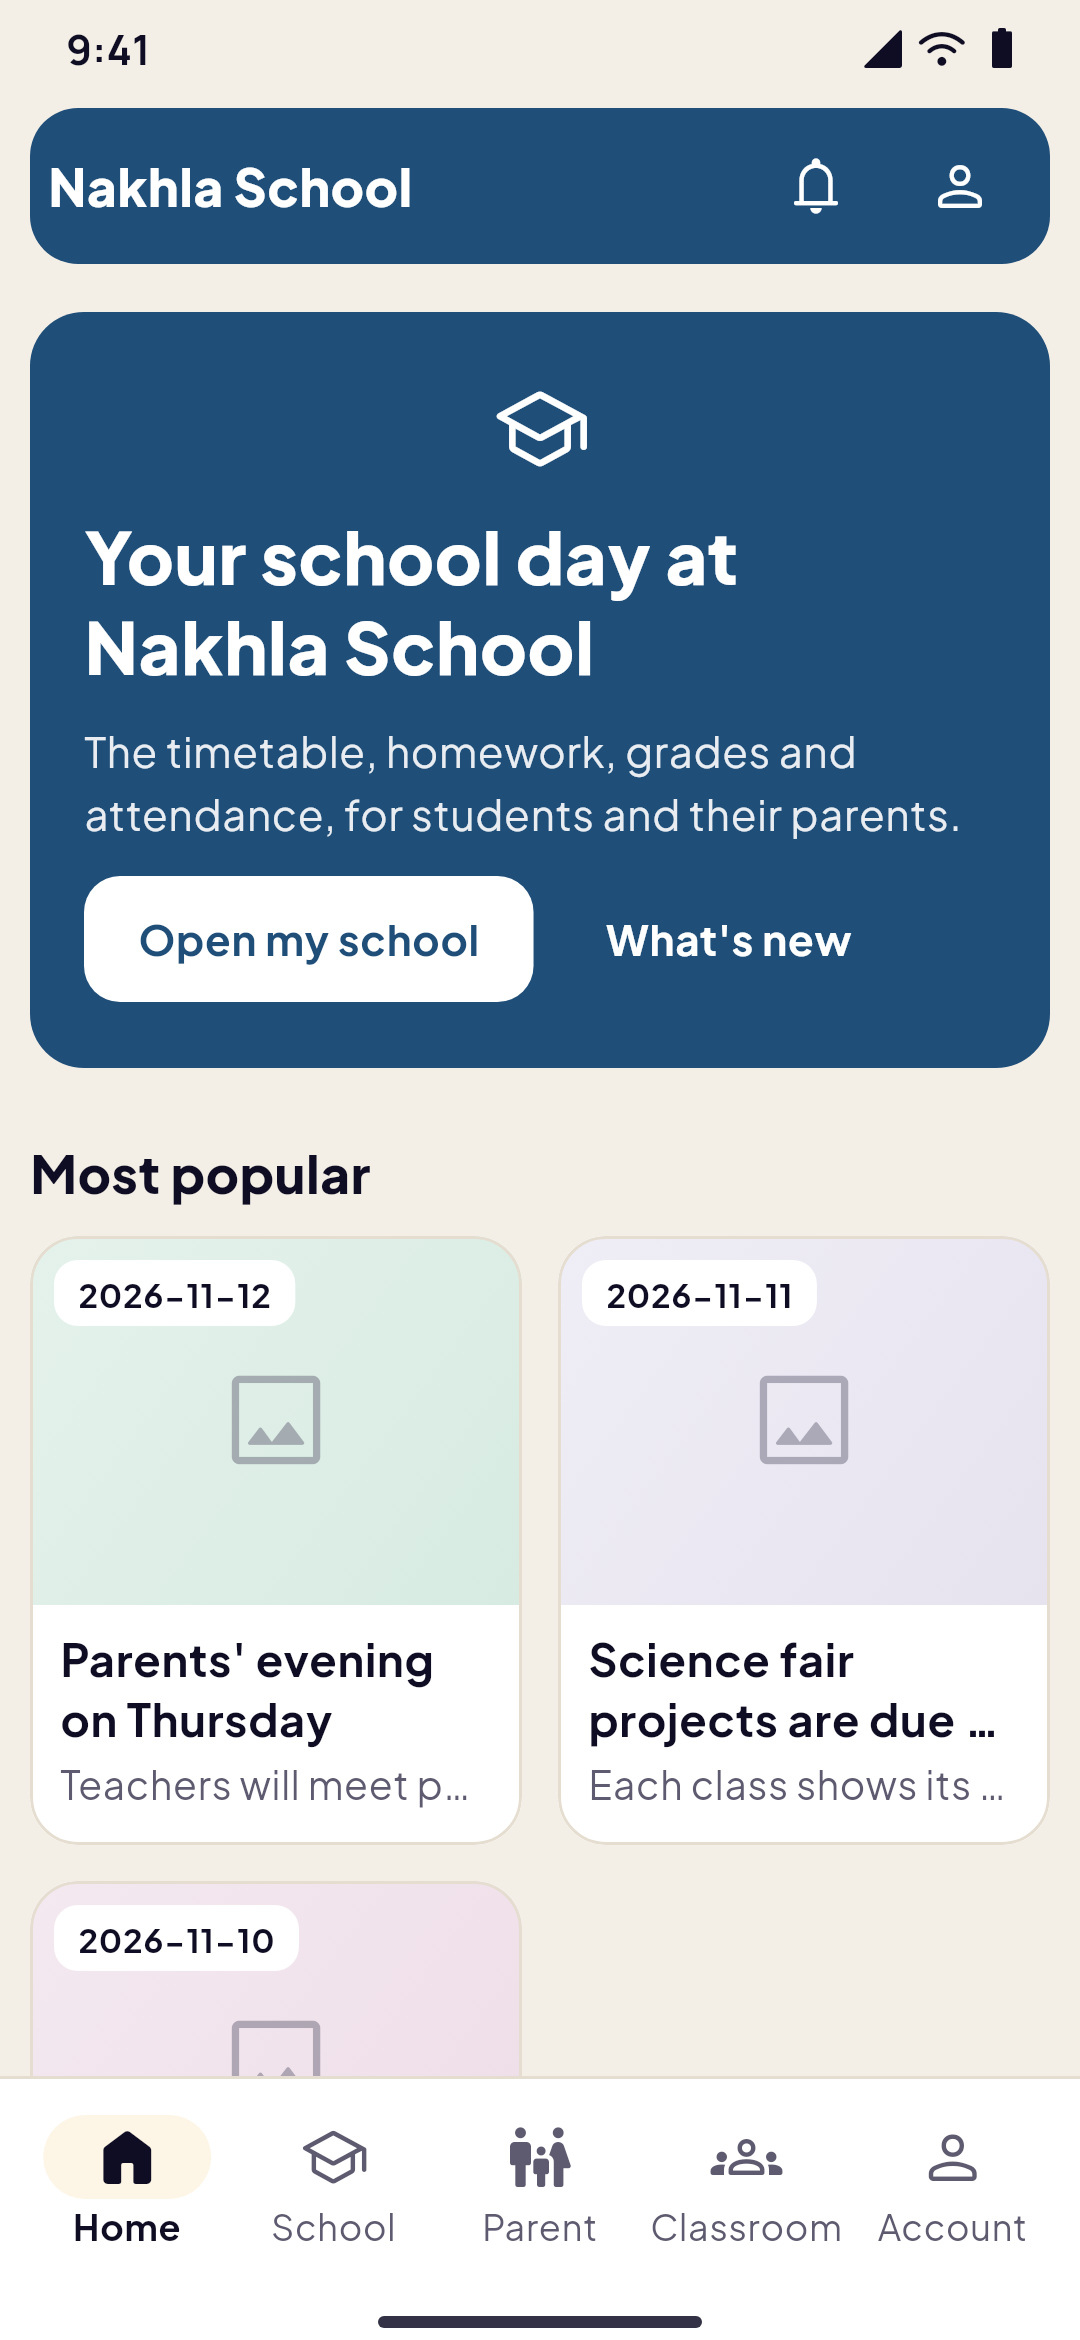
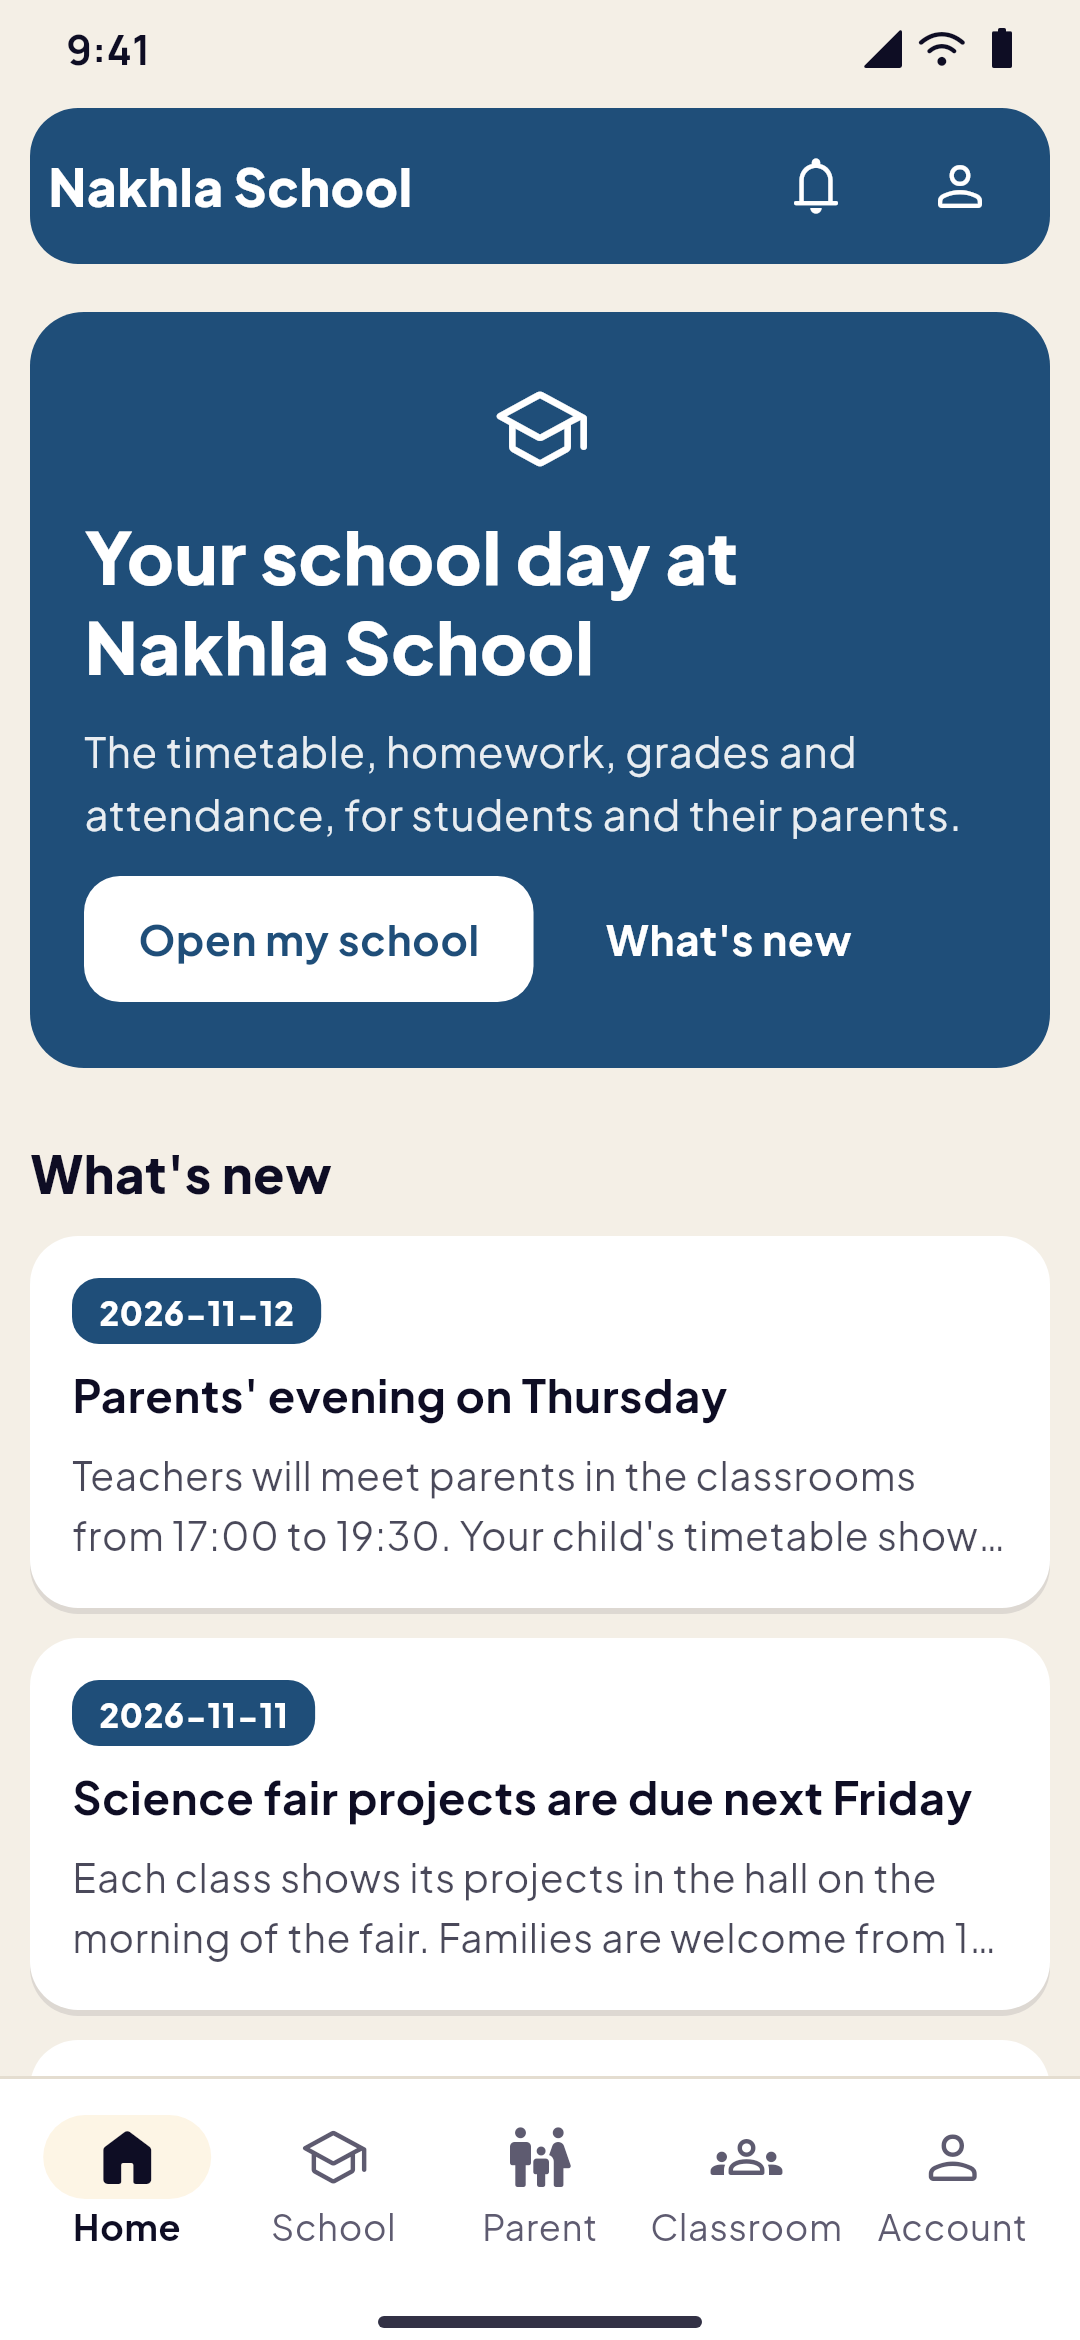
124.7 A school's news as cards of words; Zad's couriers' own app in its guide
School news never has pictures, so the school templates (and the Nakhla School demo they are) list it under "What's new" as cards of words: the date on a chip, the title and a line or two, in the app and on Studio's canvas, instead of picture tiles. Zad's guide names its couriers' own app instead of Account › Courier mode, and /demo/studio offers Zad Courier's download once it is built, as for the other Studio demos.

Claude-Session: https://claude.ai/code/session_01MSAbbHjPLVdK4KhggTQ4Tg

Changed region(s): [[0.0306, 0.4679, 0.9778, 0.9047], [0.5806, 0.5303, 0.6417, 0.5615]]

diff --git a/platform/web/src/lib/studio/sections.ts b/platform/web/src/lib/studio/sections.ts
@@ -272,6 +272,48 @@ function marketSection(
 }
 
 /** 105.4 A school's welcome in its words: a button to the school and one to what's new. */
+/**
+ * 124.7 A school's news, which never has pictures: each entry a card of
+ * words (its date on a chip, its title and a line or two of it) instead of
+ * a picture tile, under "What's new".
+ */
+function schoolNewsList(ctx: SectionContext): StudioNode {
+  const id = () => (ctx.newId ?? newNodeId)();
+  return {
+    id: id(),
+    type: "column",
+    name: ctx.w("schoolUpdates"),
+    gap: 8,
+    padding: pad(6, 10),
+    children: [
+      text(ctx, ctx.w("schoolUpdates"), { font: { size: 17, weight: 800 } }),
+      {
+        id: id(),
+        type: "items",
+        source: "school_news",
+        layout: "list",
+        gap: 10,
+        query: { limit: 4, category_id: null, featured: false, sort: "newest", ids: [] },
+        card: {
+          id: id(),
+          type: "column",
+          gap: 6,
+          padding: pad(14, 14),
+          radius: 16,
+          background: "#FFFFFF",
+          dark_background: "#22203A",
+          shadow: "light",
+          children: [
+            { id: id(), type: "row", children: [{ id: id(), type: "text", bind: "badge", font: { size: 11, weight: 800 }, padding: pad(3, 9), radius: 9, background: ctx.brand, color: "#FFFFFF" }] },
+            { id: id(), type: "text", bind: "title", max_lines: 2, font: { size: 15, weight: 700 } },
+            { id: id(), type: "text", bind: "subtitle", max_lines: 2, font: { size: 13 }, opacity: 0.75 },
+          ],
+        },
+      },
+    ],
+  };
+}
+
 function schoolWelcome(ctx: SectionContext, words: { title: SectionWord; text: SectionWord; button: SectionWord; updates: SectionWord }, icon: string): StudioNode {
   return {
     id: (ctx.newId ?? newNodeId)(),
@@ -393,7 +435,7 @@ export const SECTIONS: readonly SectionInfo[] = [
   {
     id: "products",
     icon: "grid_view",
-    make: (ctx) => ({
+    make: (ctx) => (ctx.source === "school_news" ? schoolNewsList(ctx) : {
       id: (ctx.newId ?? newNodeId)(),
       type: "column",
       name: ctx.w("listTitle"),

diff --git a/platform/web/src/lib/demo/content.ts b/platform/web/src/lib/demo/content.ts
@@ -134,6 +134,15 @@ export const DEMO_SECOND_APP_STEP: Partial<Record<DemoId, { index: number; text:
       tr: "Aşağıdan indirip aynı numarayla girdiğiniz {app} uygulamasında işi alıp teslim edin ve her aşamayı Siparişlerim'de görün",
     },
   },
+  // 124.7 Zad's couriers work in their own app too (112.3).
+  marketplace: {
+    index: 3,
+    text: {
+      en: "Download {app} below, sign in with the same number, take its job and deliver it, then see your complaints in Zad: one open, one waiting for you, one refunded to your wallet",
+      ar: "نزّل {app} من الأسفل، وسجّل الدخول بالرقم نفسه، وخذ مهمته ووصّلها، ثم شاهد شكاواك في زاد: واحدة مفتوحة، وواحدة تنتظر ردك، وواحدة رُدّ مبلغها إلى محفظتك",
+      tr: "Aşağıdan {app} uygulamasını indirin, aynı numarayla giriş yapın, onun işini alıp teslim edin, sonra Zad'da şikâyetlerinize bakın: biri açık, biri yanıtınızı bekliyor, biri cüzdanınıza iade edildi",
+    },
+  },
   rides: {
     index: 1,
     text: {
@@ -292,7 +301,7 @@ export const DEMO_GUIDES: Record<DemoId, DemoGuide> = {
       "Open My orders: one is on its way with its courier on the map, one is for tomorrow and one waits at the counter for pick-up",
       "Fill a basket at Zad Market, some of it by the kilo, take the market's own offer or the code ZAD20, and pay from your wallet",
       "In the My store tab, accept your order with the minutes it needs, pick and weigh each item, then mark it ready",
-      "In Account › Courier mode, take its job and deliver it, then see your complaints: one open, one waiting for you, one refunded to your wallet",
+      "Zad's couriers have their own app, Zad Courier. Once it can be downloaded here, sign in with the same number, take its job and deliver it, then see your complaints in Zad: one open, one waiting for you, one refunded to your wallet",
     ],
     // 124 The owner: the screens designed for Zad in Studio, not the basic ones.
     screens: ["zad-home", "zad-market", "zad-tracking"],

diff --git a/platform/web/tests/unit/studio-canvas-layout.test.ts b/platform/web/tests/unit/studio-canvas-layout.test.ts
@@ -80,6 +80,17 @@ describe("124.6 the canvas lays a page out as the app", () => {
     expect(html).toContain("display:-webkit-box;-webkit-box-orient:vertical;white-space:pre-wrap;-webkit-line-clamp:1");
   });
 
+  it("124.7 draws a school's news as cards of words: the date chip, the title and its lines, no picture tile", () => {
+    let n = 0;
+    const page = TEMPLATES.find((t) => t.id === "school")!.make({ brand: "#1F4E79", source: "school_news", w: (word: SectionWord) => String(studioEn[`w_${word}`]), newId: () => `n${++n}`, lang: "en", picture: (f) => `/design-pictures/${f}` });
+    const news = allNodes(page).find((x) => x.type === "items")!;
+    const school = { items: { school_news: [{ id: "1", title: "Parents' evening on Thursday", subtitle: "Teachers will meet parents in the classrooms.", badge: "2026-11-11", imageUrl: null }] }, categories: {} };
+    const html = renderToStaticMarkup(createElement(StudioView, { page, lang: "en", defaultLang: "en", dark: false, look: { ...LOOK, brand: "#1F4E79" }, pickable: school, words: WORDS }));
+    for (const words of ["What&#x27;s new", "Parents&#x27; evening on Thursday", "Teachers will meet parents in the classrooms.", "2026-11-11"]) expect(html).toContain(words);
+    expect(news.card).toBeTruthy();
+    expect(allNodes({ body: news.card! }).some((x) => x.type === "image" || x.bind === "image")).toBe(false);
+  });
+
   it("names the fonts the page is drawn in: the look's and each element's", () => {
     expect(fontsOfPage(academyHome().body, "DM Sans")).toEqual(["DM Sans", "Alexandria"]);
     expect(fontsOfPage(null, null)).toEqual([]);

diff --git a/platform/web/tests/unit/studio-demo-templates.test.ts b/platform/web/tests/unit/studio-demo-templates.test.ts
@@ -308,6 +308,19 @@ describe("123 The premium academy's demo: the project its template starts", () =
     expect(readFileSync(file, "utf8")).toBe(data);
   });
 
+  it("lists a school's news as cards of words, never as picture tiles (school news has no pictures)", async () => {
+    const layout = await demoOf("school");
+    const lists = allNodes(layout.pages[0]!.studio!).filter((n) => n.type === "items");
+    expect(lists.map((n) => n.source)).toEqual(["school_news"]);
+    const news = lists[0]!;
+    expect(news).toMatchObject({ layout: "list" });
+    const binds = allNodes({ body: news.card! }).map((n) => n.bind).filter(Boolean);
+    expect(binds).toEqual(["badge", "title", "subtitle"]);
+    // A new school project's template too.
+    const template = TEMPLATES.find((t) => t.id === "school")!.make(englishContext(projectApp("school")));
+    expect(allNodes(template).find((n) => n.type === "items")?.card).toBeTruthy();
+  });
+
   it.each(STUDIO_DEMO_TYPES)("draws every icon of the %s demo's pages and tabs in the app (mobile/lib/core/theme/symbol_names.dart)", async (id) => {
     const layout = await demoOf(id);
     const dart = readFileSync(join(process.cwd(), "..", "..", "mobile", "lib", "core", "theme", "symbol_names.dart"), "utf8");

diff --git a/platform/web/src/content/ar/marketing.ts b/platform/web/src/content/ar/marketing.ts
@@ -1684,7 +1684,7 @@ export const AR_MARKETING: MarketingTranslation = {
         "افتح «طلباتي»: طلب في الطريق ومندوبه على الخريطة، وطلب لبكرة، وطلب ينتظرك عند الكاونتر للاستلام",
         "املأ سلة من زاد ماركت، وبعضها بالكيلو، واستخدم عرض الماركت نفسه أو الكود ZAD20، وادفع من محفظتك",
         "في تبويب «متجري»، اقبل طلبك بالدقائق التي يحتاجها، وجهّز كل صنف ووزنه، ثم ضع عليه علامة جاهز",
-        "في الحساب › وضع المندوب، خذ مهمته ووصّلها، ثم شاهد شكاواك: واحدة مفتوحة، وواحدة تنتظر ردك، وواحدة رُدّ مبلغها إلى محفظتك",
+        "لمناديب زاد تطبيقهم الخاص، Zad Courier. وعندما يتاح تنزيله هنا، سجّل الدخول بالرقم نفسه، وخذ مهمته ووصّلها، ثم شاهد شكاواك في زاد: واحدة مفتوحة، وواحدة تنتظر ردك، وواحدة رُدّ مبلغها إلى محفظتك",
       ],
     },
     rides: {

diff --git a/platform/web/src/content/tr/marketing.ts b/platform/web/src/content/tr/marketing.ts
@@ -1673,7 +1673,7 @@ export const TR_MARKETING: MarketingTranslation = {
         "Siparişlerim'i açın: biri yolda ve kuryesi haritada, biri yarın için, biri de gel-al için tezgâhta sizi bekliyor",
         "Zad Market'ten bir sepet doldurun, bir kısmı kiloyla, marketin kendi kampanyasını ya da ZAD20 kodunu kullanın ve cüzdanınızla ödeyin",
         "İşletmem sekmesinde siparişinizi gereken dakikalarla kabul edin, her ürünü toplayıp tartın, sonra hazır olarak işaretleyin",
-        "Hesap › Kurye modu'nda onun işini alıp teslim edin, sonra şikâyetlerinize bakın: biri açık, biri yanıtınızı bekliyor, biri cüzdanınıza iade edildi",
+        "Zad'ın kuryelerinin kendi uygulaması var: Zad Courier. Buradan indirilebildiğinde aynı numarayla giriş yapın, onun işini alıp teslim edin, sonra Zad'da şikâyetlerinize bakın: biri açık, biri yanıtınızı bekliyor, biri cüzdanınıza iade edildi",
       ],
     },
     rides: {

diff --git a/docs/ROADMAP.md b/docs/ROADMAP.md
@@ -3112,4 +3112,4 @@ The owner (12 November): a page for Black Friday with an offer, 50% off, explain
 | [x] | 124.4 The Black Friday campaign email in English, Arabic (right to left) and Turkish (Admin › Email campaigns › Templates, Offers), with a credited photo; a campaign started from the Arabic or Turkish one starts in its language | `mailing.test.ts` |
 | [x] | 124.5 Plugin 0.4.35: a new look for the settings screen and the course, lesson and post boxes (the owner, 12 November: premium like the website, its features as they are): the Yallapp header with the license's state, the sections beside the cards (above them on phones), each card with its Material Symbols Rounded icon (inline SVG, no font), status chips, switches, choice tiles, Ember for the main action and Midnight for the others, empty states; light and dark, mirrored right to left, no request to another site; every setting, field, nonce and saved value as before | `settings-page-check.php`, `license-paused-check.php`, Plugin Check |
 | [x] | 124.6 The premium academy offered as it is (the owner, 12 November): in a Studio academy's App setup › Branding first among the designs, in its real picture, and saved as a new project from it starts (its pages, tabs, bar, look, sign-in screen, account menu and sample entries, in the colour just chosen), or its look only, then shown as chosen (`lib/studio/project-templates.ts`; never a page design for other academies); "Premium academy" among /studio/new's Studio projects, the Academy kind with its template picked; Studio's canvas as the app draws the page: the streak's and live class's icons in the icon font, the project's fonts (Alexandria) loaded, a button that hugs its words at the start of its column, a layer's elements as tall as what they hold (a course's badge, not a stripe), a card's bound texts filled from the entry and an empty one left out; the banner's and the offer section's words at their foot in the app too | `studio-project-templates.test.ts`, `studio-canvas-layout.test.ts`, `studio-setup.spec.ts` |
-| [x] | 124.7 /demo/studio shows every Studio demo as its app is (the owner, 12 November: some apps still had the basic pictures): Sahm Express, Sofra Eats, Masar Rides, Lamha Taxi, Nakhla School and Rawaq Academy drawn from their real layouts (one file each in `mobile/test/support`, written and kept in sync by `studio-demo-templates.test.ts`), each with its Studio home, header, tab bar, colours and font and two of the screens it is for, in their own drawings; the app draws the icons the demos use (the food demo's dish, the ride demos' Ride tab, the call to action's arrow) and a screen opened over the tabs keeps its Studio header's words in the app's style; Masar Rides' and Lamha Taxi's car types in the designs' car drawings (in the app and on Studio's canvas; none drawn of a van or a six-seat car), Sahm Express's home with its own address and hours where the template asks an owner for theirs (`DEMO_FACTS`; a project keeps the brackets), and the rides, taxi, delivery and food guides naming the drivers' or couriers' own app instead of a Driver or Courier mode the app no longer has | `studio-demo-templates.test.ts`, `demo-apps.test.ts`, `bot-create.test.ts`, `site-content.test.ts`, `public.spec.ts`, `demo-apps.spec.ts` |
+| [x] | 124.7 /demo/studio shows every Studio demo as its app is (the owner, 12 November: some apps still had the basic pictures): Sahm Express, Sofra Eats, Masar Rides, Lamha Taxi, Nakhla School and Rawaq Academy drawn from their real layouts (one file each in `mobile/test/support`, written and kept in sync by `studio-demo-templates.test.ts`), each with its Studio home, header, tab bar, colours and font and two of the screens it is for, in their own drawings; the app draws the icons the demos use (the food demo's dish, the ride demos' Ride tab, the call to action's arrow) and a screen opened over the tabs keeps its Studio header's words in the app's style; Masar Rides' and Lamha Taxi's car types in the designs' car drawings (in the app and on Studio's canvas; none drawn of a van or a six-seat car), Sahm Express's home with its own address and hours where the template asks an owner for theirs (`DEMO_FACTS`; a project keeps the brackets), a school's news (which never has pictures) as cards of words in the school templates, its date on a chip, its title and a line or two, in the app and on Studio's canvas, and the rides, taxi, delivery, food and multi-vendor guides naming the drivers' or couriers' own app instead of a Driver or Courier mode the app no longer has, the multi-vendor demo's courier app offered for download too once built | `studio-demo-templates.test.ts`, `demo-apps.test.ts`, `bot-create.test.ts`, `studio-canvas-layout.test.ts`, `site-content.test.ts`, `public.spec.ts`, `demo-apps.spec.ts` |
